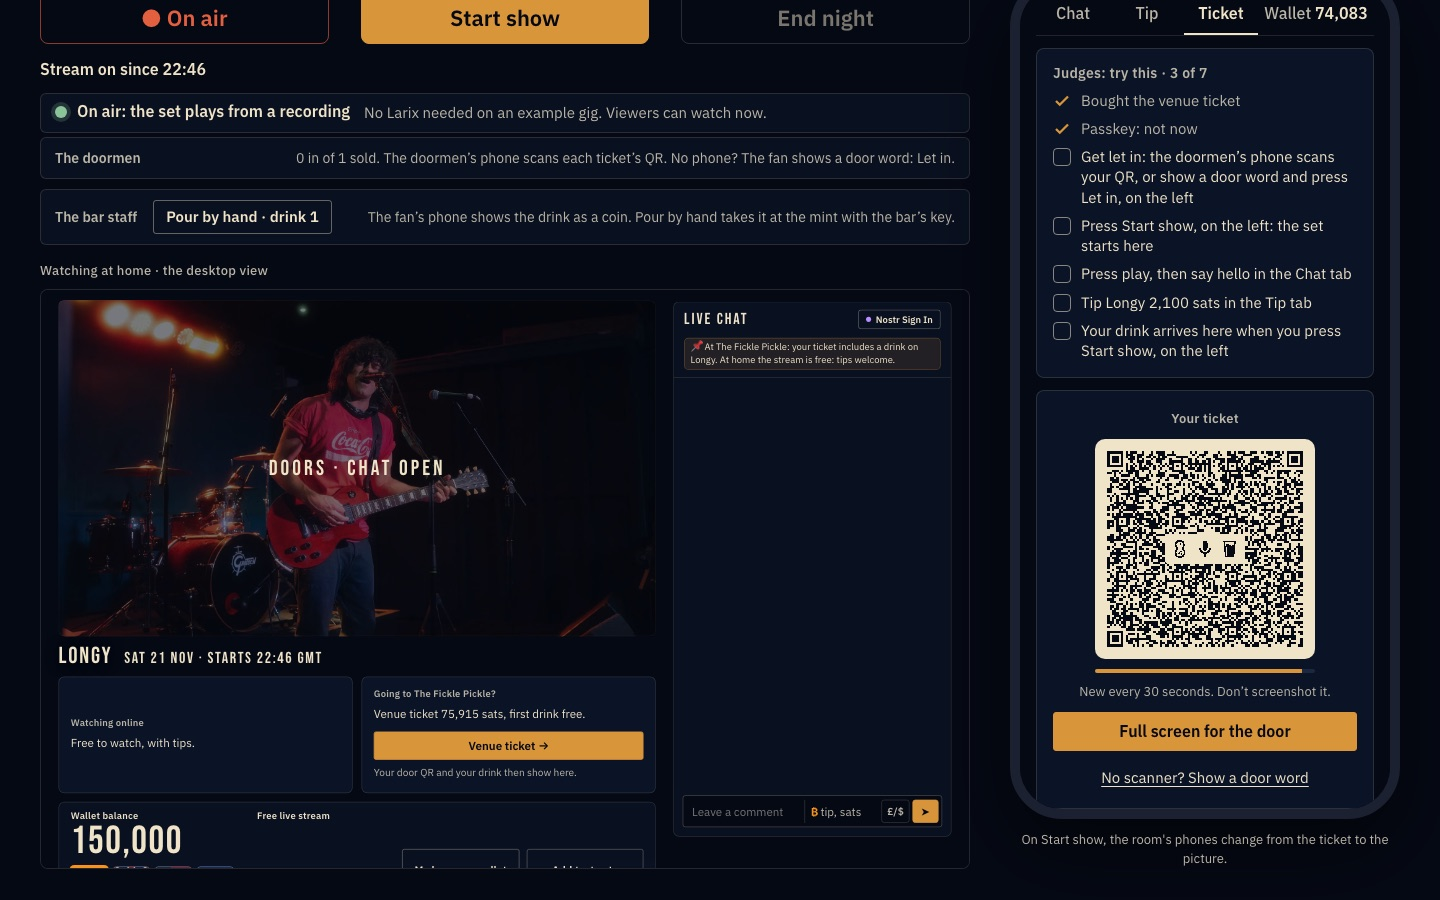
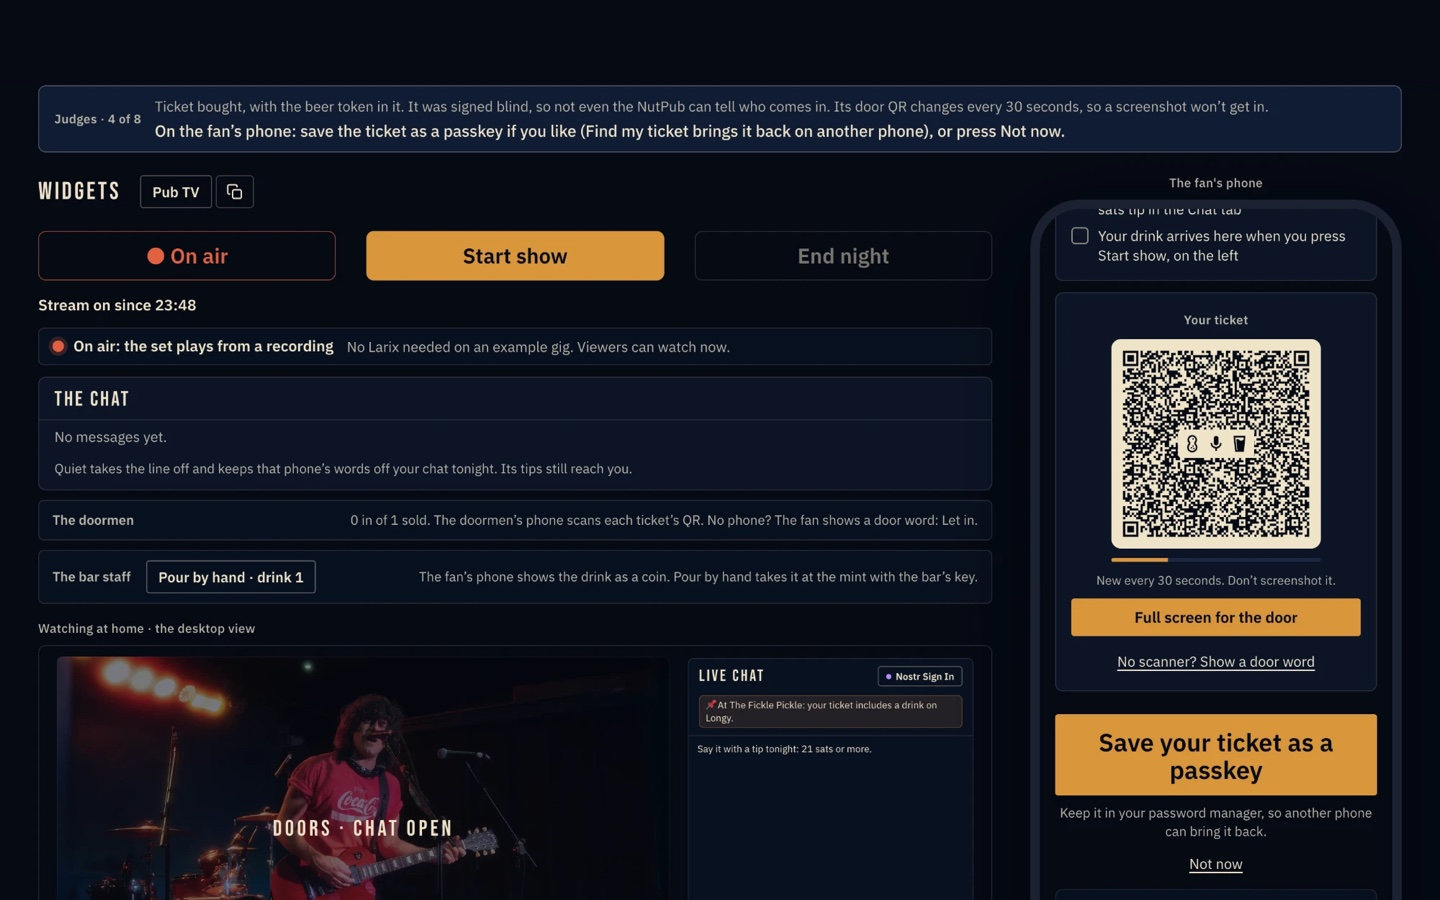
Session 61: a sealed ticket says sealed to your passkey, as not everyone unlocks with a face or fingerprint; gig 3's README picture at step 4, the door QR on the phone

diff --git a/client/passkey.js b/client/passkey.js
@@ -79,8 +79,9 @@ export async function makePasskey(pass, name, id = null, sealIt = false) {
   return sealed ? { sealed, cred: cred.id, handle: b64u(handle) } : { ok: true };
 }
 
-// A sealed ticket in this browser, opened with its own passkey: the face or fingerprint, then its PRF answer opens the
-// copy here (nothing asked of the server). The 32 bytes, or null if the fan closed the sheet.
+// A sealed ticket in this browser, opened with its own passkey: whatever the password manager asks (face, fingerprint
+// or password), then its PRF answer opens the copy here (nothing asked of the server). The 32 bytes, or null if the
+// fan closed the sheet.
 export async function openSealed(s) {
   let cred;
   try {

diff --git a/client/viewer.js b/client/viewer.js
@@ -1248,7 +1248,7 @@ function render() {
     const inRoom = !!door.checkedAt;
     $('door-show').hidden = inRoom;
     $('door-pass-title').textContent = inRoom ? 'You’re in' : 'Your ticket';
-    $('door-pass-note').textContent = inRoom ? '· enjoy the night' : userIdOf(pass, KEEP) && !seedText(pass, KEEP) ? '· opens only with your face or fingerprint' : '';
+    $('door-pass-note').textContent = inRoom ? '· enjoy the night' : userIdOf(pass, KEEP) && !seedText(pass, KEEP) ? '· sealed to your passkey' : '';
     doorQr();
     // Scanned while the QR is open: it says so, then closes by itself.
     if (inRoom && !$('door-screen').hidden && $('door-in').hidden) {

diff --git a/public/index.html b/public/index.html
@@ -94,7 +94,7 @@
       <div class="door-line" id="door-open" hidden>
         <p><b>Your ticket</b> · sealed to your passkey</p>
         <button type="button" class="btn primary" id="door-open-btn">Open your ticket</button>
-        <p class="hint">Your face or fingerprint opens it.</p>
+        <p class="hint">Your passkey opens it.</p>
       </div>
       <div class="drink card" id="drink" hidden>
         <img id="drink-qr" alt="Your free drink: a QR code for the bar" width="112" height="112">
